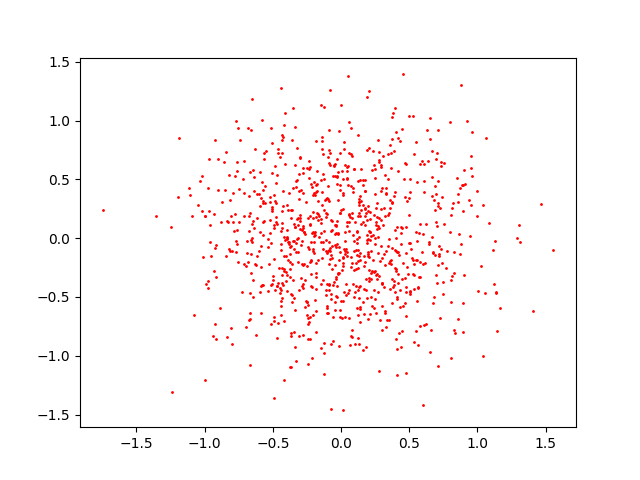
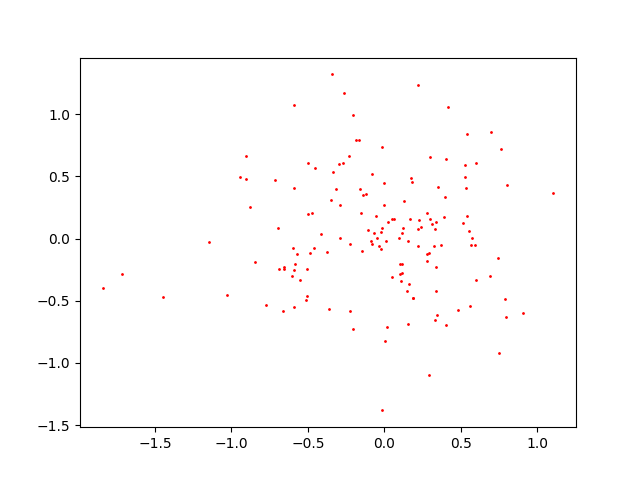
HW03 basic

diff --git a/HW03/mean_shift.py b/HW03/mean_shift.py
@@ -1,0 +1,70 @@
+import numpy as np
+
+class MeanShift(object):
+    def __init__(self, kernel_bandwidth, stop_threshold, cluster_threshold):
+        self.kernel_bandwidth = kernel_bandwidth
+        self.stop_threshold = stop_threshold
+        self.cluster_threshold = cluster_threshold
+
+    @staticmethod
+    def dist(a, b):
+        return np.linalg.norm(np.array(a) - np.array(b))
+
+    @staticmethod
+    def gaussian_kernel(distance, bandwidth):
+        return (1 / (bandwidth * np.sqrt(2 * np.pi))) * np.exp(-0.5 * ((distance / bandwidth)) ** 2)
+
+    def fit(self, points):
+
+        shift_points = np.array(points)
+        shifting = [True] * points.shape[0]
+
+        while True:
+            max_dist = 0
+            for i in range(0, len(shift_points)):
+                print(i + 1, '/', len(shift_points), 'max_dist:', max_dist)
+                if not shifting[i]:
+                    continue
+                p_shift_init = shift_points[i].copy()
+                shift_points[i] = self._shift_point(shift_points[i], points)
+                dist = self.dist(shift_points[i], p_shift_init)
+                max_dist = max(max_dist, dist)
+                shifting[i] = dist > self.stop_threshold
+
+            if max_dist < self.stop_threshold:
+                break
+
+        cluster_ids = self._cluster_points(shift_points.tolist())
+        return shift_points, cluster_ids
+
+    def _shift_point(self, point, points):
+        shift = np.array([0., 0.])
+        scale = 0.
+        for p in points:
+            dist = self.dist(point, p)
+            weight = self.gaussian_kernel(dist, self.kernel_bandwidth)
+            shift += weight * p
+            scale += weight
+        shift /= scale
+        return shift
+
+    def _cluster_points(self, points):
+        cluster_ids = []
+        cluster_idx = 0
+        cluster_centers = []
+
+        for i, point in enumerate(points):
+            if len(cluster_ids) == 0:
+                cluster_ids.append(cluster_idx)
+                cluster_centers.append(point)
+                cluster_idx += 1
+            else:
+                for center in cluster_centers:
+                    dist = self.dist(point, center)
+                    if(dist < self.cluster_threshold):
+                        cluster_ids.append(cluster_centers.index(center))
+                if len(cluster_ids) < i + 1:
+                    cluster_ids.append(cluster_idx)
+                    cluster_centers.append(point)
+                    cluster_idx += 1
+        return cluster_ids

diff --git a/HW03/main.py b/HW03/main.py
@@ -1,7 +1,8 @@
 import numpy as np
 import matplotlib.pyplot as plt
+from mean_shift import MeanShift
 
-def gen_MoG(mu, sigma, size=1000):
+def gen_MoG(mu, sigma, size=150):
     assert type(mu) == list
     assert type(sigma) == list
     assert len(mu) == len(sigma)
@@ -14,7 +15,7 @@ def gen_MoG(mu, sigma, size=1000):
 def gen_data():
     G_data = gen_MoG(mu=[[0,0]], sigma=[[0.25, 0.25]])
 
-    MoG_data = gen_MoG(mu=[[-1, -1], [-0.5, 0.5], [2, -0.5], [1, 1]], sigma=[[0.25, 0.25]] * 4)
+    MoG_data = gen_MoG(mu=[[-1, -0.5], [-1, 0.5], [1, 1], [1, -1]], sigma=[[0.16, 0.16]] * 4)
 
     color = ['red', 'green', 'blue', 'cyan', 'yellow', 'gray', ]
     for i, p in enumerate(G_data):
@@ -26,5 +27,17 @@ def gen_data():
         plt.savefig("img/MoG2d.png")
     plt.show()
 
+    return MoG_data
+
+
+
 if __name__ == '__main__':
-    gen_data()
+    data = gen_data()
+    points = np.concatenate(data, axis=0)
+    ms = MeanShift(0.5, 1e-2, 1e-1)      
+    pts, cluster = ms.fit(points)
+    color = ['red', 'green', 'blue', 'cyan', 'yellow', 'gray', ]
+    for i, p in enumerate(points):
+        plt.scatter(p[0], p[1], s=1, color=color[cluster[i] - 1])
+    plt.savefig("img/mean_shift.png")
+    plt.show()
